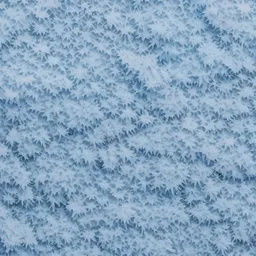
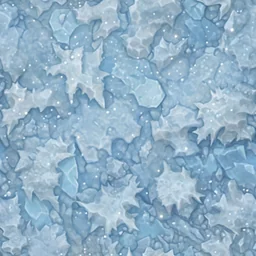
Set magma y texturas nuevas del hielo
Hielo: texturas nuevas (SDXL + LoRA de texturas pintadas a mano).
Magma: tablero de roca y lava; piezas de piedra blanca y negra con vetas
de lava. Se suma el estilo a materiales, texturas, tema del tablero y
los cinco idiomas.

diff --git a/src/pieces/materials.ts b/src/pieces/materials.ts
@@ -3,7 +3,7 @@ import { PIECE_SET_META, PieceSetId } from './pieceSets';
 // Neón y vintage quedaron fuera por ahora (sus texturas siguen en assets/texturas y los textos en i18n).
 // Sets de piezas "de material": usan las siluetas del Clásico y las rellenan con una textura.
 // Las texturas (generadas con ComfyUI, ver docs/design.md) se cargan en `textures.ts`.
-export type MaterialSetId = 'madera' | 'marmol' | 'hielo';
+export type MaterialSetId = 'madera' | 'marmol' | 'hielo' | 'magma';
 export type AnyPieceSetId = PieceSetId | MaterialSetId;
 
 // `winter`: suma nieve, carámbanos y un copo (winter.ts). `outline`: contorno de las piezas blancas. `rim`: filo fino alrededor de las negras (separa la pieza de una casilla oscura).
@@ -11,6 +11,7 @@ export const MATERIAL_SETS: Record<MaterialSetId, { outline: string; rim: string
   madera: { outline: '#3B2412', rim: '#C89A5E' },
   marmol: { outline: '#2A2A2A', rim: '#D8C48A' },
   hielo: { outline: '#14304A', rim: '#9FD8F2', winter: true },
+  magma: { outline: '#3A0F02', rim: '#FF9A4D' },
 };
 
 export const isMaterialSet = (id: string): id is MaterialSetId => id in MATERIAL_SETS;

diff --git a/src/theme.ts b/src/theme.ts
@@ -47,7 +47,8 @@ export const boardThemes = {
   // sirven de respaldo, para las coordenadas y para la vista previa.
   madera: { name: 'Madera', light: '#E0BE8A', dark: '#7A4A2A', texture: 'madera' },
   marmol: { name: 'Mármol', light: '#E8E6E1', dark: '#2F5A44', texture: 'marmol' },
-  hielo: { name: 'Hielo', light: '#DCEAF3', dark: '#4F8FB5', texture: 'hielo' },
+  hielo: { name: 'Hielo', light: '#91B1C7', dark: '#265E73', texture: 'hielo' },
+  magma: { name: 'Magma', light: '#6D3F2F', dark: '#362A2A', texture: 'magma' },
 } as const satisfies Record<string, { name: string; light: string; dark: string; texture?: string }>;
 export type BoardThemeId = keyof typeof boardThemes;
 /** Tema del tablero con textura: `texture` es el estilo de material (`MaterialSetId`). */

diff --git a/src/i18n/it.ts b/src/i18n/it.ts
@@ -145,6 +145,7 @@ export const it: Record<MessageKey, string> = {
   'boardTheme.neon': 'Neon',
   'boardTheme.vintage': 'Vintage',
   'boardTheme.hielo': 'Ghiaccio',
+  'boardTheme.magma': 'Magma',
 
   // Piezas
   'pieces.back': '‹ Indietro',
@@ -180,6 +181,8 @@ export const it: Record<MessageKey, string> = {
   'pieceSet.vintage.description': 'Avorio invecchiato e bronzo antico, su pergamena e cuoio.',
   'pieceSet.hielo.name': 'Ghiaccio',
   'pieceSet.hielo.description': 'Cristallo di ghiaccio e brina. Freddo e brillante.',
+  'pieceSet.magma.name': 'Magma',
+  'pieceSet.magma.description': 'Pietra bianca e nera attraversata da vene di magma incandescente.',
 
   // Tablero
   'board.cancelPromotion': 'Annulla promozione',

diff --git a/src/i18n/de.ts b/src/i18n/de.ts
@@ -145,6 +145,7 @@ export const de: Record<MessageKey, string> = {
   'boardTheme.neon': 'Neon',
   'boardTheme.vintage': 'Vintage',
   'boardTheme.hielo': 'Eis',
+  'boardTheme.magma': 'Magma',
 
   // Piezas
   'pieces.back': '‹ Zurück',
@@ -180,6 +181,8 @@ export const de: Record<MessageKey, string> = {
   'pieceSet.vintage.description': 'Gealtertes Elfenbein und antike Bronze auf Pergament und Leder.',
   'pieceSet.hielo.name': 'Eis',
   'pieceSet.hielo.description': 'Eiskristall und Frost. Kalt und glänzend.',
+  'pieceSet.magma.name': 'Magma',
+  'pieceSet.magma.description': 'Weißer und schwarzer Stein, durchzogen von glühenden Magmaadern.',
 
   // Tablero
   'board.cancelPromotion': 'Umwandlung abbrechen',

diff --git a/src/i18n/fr.ts b/src/i18n/fr.ts
@@ -145,6 +145,7 @@ export const fr: Record<MessageKey, string> = {
   'boardTheme.neon': 'Néon',
   'boardTheme.vintage': 'Vintage',
   'boardTheme.hielo': 'Glace',
+  'boardTheme.magma': 'Magma',
 
   // Piezas
   'pieces.back': '‹ Retour',
@@ -180,6 +181,8 @@ export const fr: Record<MessageKey, string> = {
   'pieceSet.vintage.description': 'Ivoire vieilli et bronze ancien, sur parchemin et cuir.',
   'pieceSet.hielo.name': 'Glace',
   'pieceSet.hielo.description': 'Cristal de glace et givre. Froid et brillant.',
+  'pieceSet.magma.name': 'Magma',
+  'pieceSet.magma.description': 'Pierre blanche et noire traversée de veines de magma incandescent.',
 
   // Tablero
   'board.cancelPromotion': 'Annuler la promotion',

diff --git a/src/i18n/en.ts b/src/i18n/en.ts
@@ -145,6 +145,7 @@ export const en: Record<MessageKey, string> = {
   'boardTheme.neon': 'Neon',
   'boardTheme.vintage': 'Vintage',
   'boardTheme.hielo': 'Ice',
+  'boardTheme.magma': 'Magma',
 
   // Piezas
   'pieces.back': '‹ Back',
@@ -180,6 +181,8 @@ export const en: Record<MessageKey, string> = {
   'pieceSet.vintage.description': 'Aged ivory and antique bronze, on parchment and leather.',
   'pieceSet.hielo.name': 'Ice',
   'pieceSet.hielo.description': 'Ice crystal and frost. Cold and shiny.',
+  'pieceSet.magma.name': 'Magma',
+  'pieceSet.magma.description': 'White and black stone cut by glowing magma veins.',
 
   // Tablero
   'board.cancelPromotion': 'Cancel promotion',

diff --git a/src/i18n/es.ts b/src/i18n/es.ts
@@ -144,6 +144,7 @@ export const es = {
   'boardTheme.neon': 'Neón',
   'boardTheme.vintage': 'Vintage',
   'boardTheme.hielo': 'Hielo',
+  'boardTheme.magma': 'Magma',
 
   // Piezas
   'pieces.back': '‹ Volver',
@@ -179,6 +180,8 @@ export const es = {
   'pieceSet.vintage.description': 'Marfil envejecido y bronce antiguo, sobre pergamino y cuero.',
   'pieceSet.hielo.name': 'Hielo',
   'pieceSet.hielo.description': 'Cristal de hielo y escarcha. Frío y brillante.',
+  'pieceSet.magma.name': 'Magma',
+  'pieceSet.magma.description': 'Piedra blanca y negra surcada por vetas de magma incandescente.',
 
   // Tablero
   'board.cancelPromotion': 'Cancelar coronación',

diff --git a/src/pieces/textures.ts b/src/pieces/textures.ts
@@ -29,4 +29,10 @@ export const TEXTURES: Record<MaterialSetId, MaterialTextures> = {
     white: require('../../assets/texturas/hielo-pieza-blanca.webp'),
     black: require('../../assets/texturas/hielo-pieza-negra.webp'),
   },
+  magma: {
+    light: require('../../assets/texturas/magma-casilla-clara.webp'),
+    dark: require('../../assets/texturas/magma-casilla-oscura.webp'),
+    white: require('../../assets/texturas/magma-pieza-blanca.webp'),
+    black: require('../../assets/texturas/magma-pieza-negra.webp'),
+  },
 };

diff --git a/CLAUDE.md b/CLAUDE.md
@@ -57,7 +57,7 @@
 - Los ids de lección y de paso deben ser únicos (un id repetido rompe las listas).
 - Diseño de pasos: el tablero va siempre arriba, en la misma posición; el texto, opciones y botones van debajo.
 - Piezas: 5 sets vectoriales (clasico, minimalista, gotico, redondeado, contorneado) en `src/pieces/pieceSets.ts`, generados a partir de imágenes hechas con ChatGPT (copyright de obras de IA incierto; mencionar origen en Créditos). `Piece.tsx` dibuja la pieza al 89 % de la casilla (margen `PAD`) para no tapar las coordenadas, y usa el set elegido en Perfil > Piezas (`PieceSetContext`, clave AsyncStorage `@ajedrez/pieceSet`). El set anterior quedó en `PieceLegacy.tsx`.
-- Estilos de material (2-11-2026): piezas y tableros **madera, mármol y hielo** (neón y vintage quedaron fuera por ahora: texturas en `assets/texturas`, textos en i18n), que se eligen por separado (Ajustes > Tablero y Perfil > Piezas). Las piezas usan las siluetas del Clásico rellenas con textura (`src/pieces/materials.ts`, `textures.ts`, `Piece.tsx` con ClipPath + Image) y el tablero dibuja la textura por casilla (`SquareTexture.tsx`). 20 texturas de 256 px en `assets/texturas/`, generadas con ComfyUI (SDXL base; neón y parte del tablero neón son degradados dibujados en código porque el modelo no controla bien el neón); originales de 768 px en `assets/fuente/texturas/` (fuera de git). Los sets nuevos son gratis por ahora: la tienda (`shop.ts`, `PIECE_SET_PRICES`) está lista para ponerles precio. El tema marrón plano ahora se llama «Marrón» (clave `marron` intacta). Hielo suma detalles invernales dibujados en código (`src/pieces/winter.ts`: nieve arriba, carámbanos y un copo) porque generar las piezas con img2img deformaba las siluetas. Sin probar aún en el celular.
+- Estilos de material (2-11-2026): piezas y tableros **madera, mármol, hielo y magma** (neón y vintage quedaron fuera por ahora: texturas en `assets/texturas`, textos en i18n), que se eligen por separado (Ajustes > Tablero y Perfil > Piezas). Las piezas usan las siluetas del Clásico rellenas con textura (`src/pieces/materials.ts`, `textures.ts`, `Piece.tsx` con ClipPath + Image) y el tablero dibuja la textura por casilla (`SquareTexture.tsx`). 20 texturas de 256 px en `assets/texturas/` (hielo y magma, del 2-11-2026, con SDXL base + LoRA «Hand-Painted 2d Seamless Textures»; las del hielo anterior están en `assets/fuente/texturas/hielo-anterior/`; en magma las piezas son piedra blanca y negra con vetas de lava), generadas con ComfyUI (SDXL base; neón y parte del tablero neón son degradados dibujados en código porque el modelo no controla bien el neón); originales de 768 px en `assets/fuente/texturas/` (fuera de git). Los sets nuevos son gratis por ahora: la tienda (`shop.ts`, `PIECE_SET_PRICES`) está lista para ponerles precio. El tema marrón plano ahora se llama «Marrón» (clave `marron` intacta). Hielo suma detalles invernales dibujados en código (`src/pieces/winter.ts`: nieve arriba, carámbanos y un copo) porque generar las piezas con img2img deformaba las siluetas. Sin probar aún en el celular.
 - Avatares de bots: un personaje por bot en `assets/bots/<id>.webp` (hechos con ChatGPT, mencionados en Créditos), registrados en `AVATARS` de `src/components/BotAvatar.tsx` con su escala dentro del círculo.
 - Icono (hecho con ChatGPT, en Créditos): caballo verde que sube una escalera con flecha dorada, fondo #262421. Original en `assets/fuente/icono-figura.png`; de ahí salen `icon.png` (1024, con fondo), `android-icon-foreground.png` y `android-icon-monochrome.png` (figura dentro del círculo seguro, radio 29 % del ancho), `android-icon-background.png` (liso), `splash-icon.png` (pantalla de carga: plugin `expo-splash-screen` en app.json, se oculta al terminar de cargar en `_layout.tsx`), `favicon.png` y `assets/tienda/icono-512.png` (para la ficha de Google Play). Se regeneran escalando con Chrome sin ventana (ver docs/design.md, «Icono»).
 
